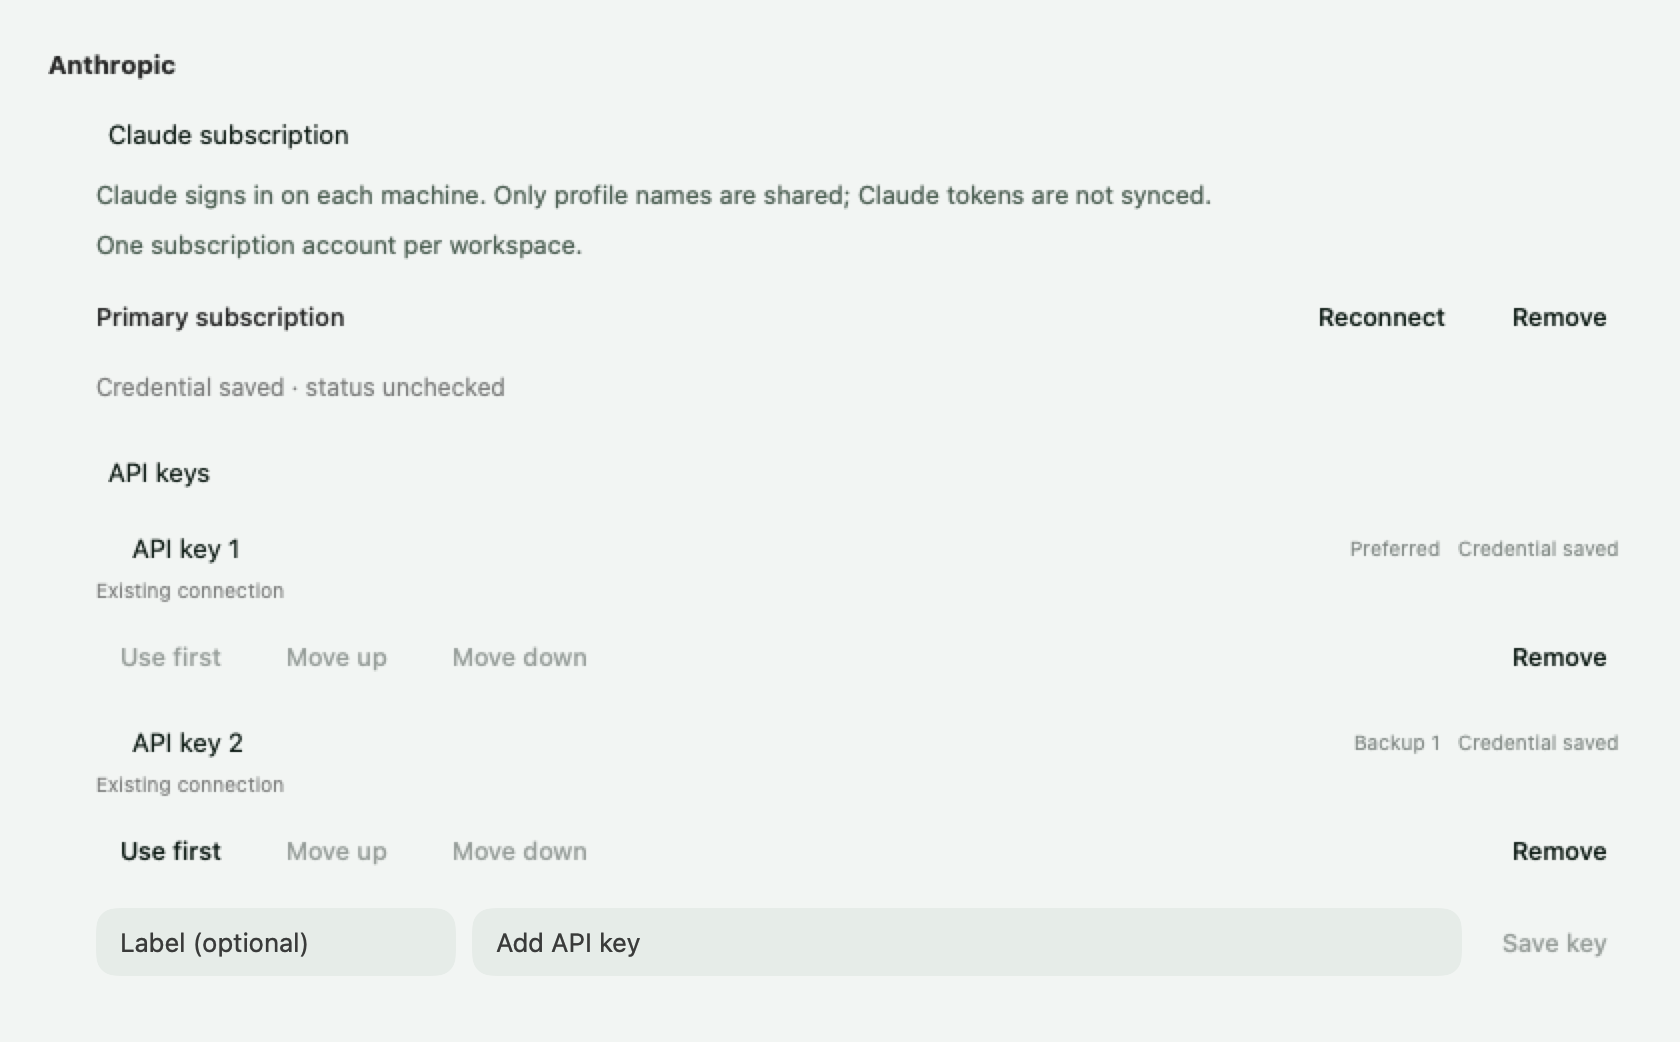
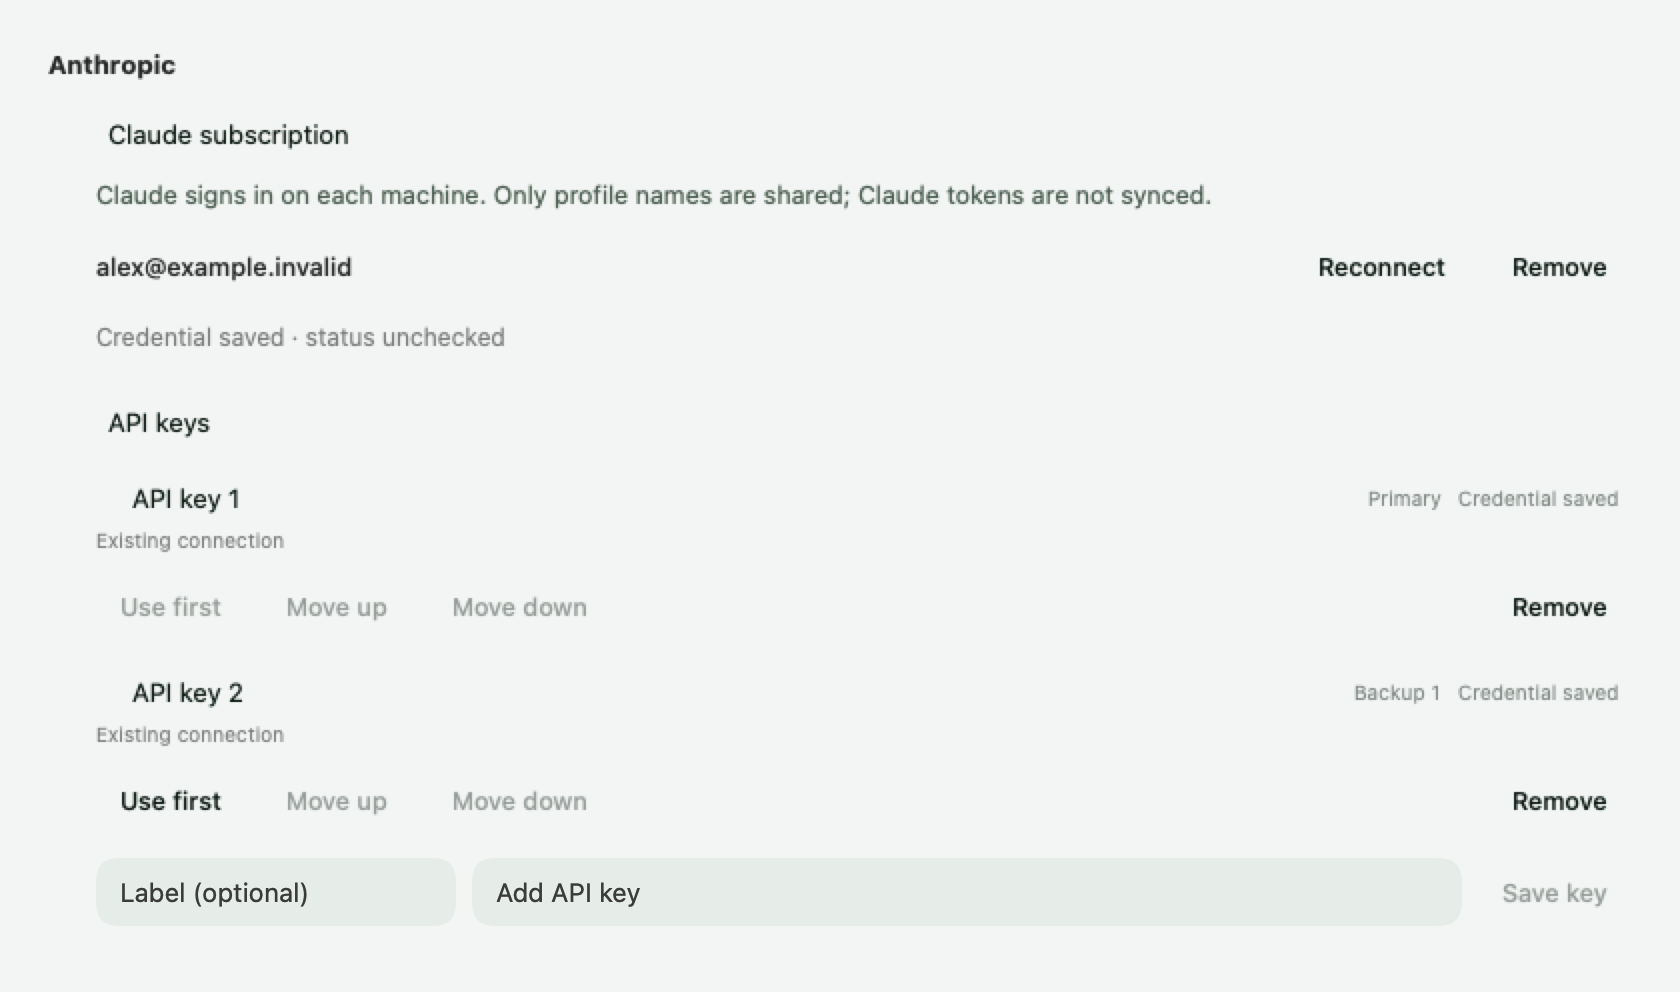
Show subscription identity without priority wording

diff --git a/app/App/Views/SettingsConnectionsView.swift b/app/App/Views/SettingsConnectionsView.swift
@@ -170,7 +170,6 @@ struct SettingsConnectionsView: View {
                 SettingsNote("Claude signs in on each machine. Only profile names are shared; Claude tokens are not synced.")
             }
             if subscription {
-                SettingsNote("One subscription account per workspace.")
                 ForEach(accounts) { account in
                     HStack {
                         Text(account.label).font(.system(size: 12.5, weight: .medium))
@@ -204,7 +203,7 @@ struct SettingsConnectionsView: View {
                         HStack {
                             Text(account.label)
                             Spacer()
-                            Text(account.isSelected ? "Preferred" : "Backup \(index)").font(.caption).foregroundStyle(.secondary)
+                            Text(account.isSelected ? "Primary" : "Backup \(index)").font(.caption).foregroundStyle(.secondary)
                             Text("Credential saved").font(.caption).foregroundStyle(.secondary)
                         }
                     }
@@ -216,7 +215,7 @@ struct SettingsConnectionsView: View {
                 }
             }
             if remote != nil && ["openai-codex", "xai"].contains(id) {
-                Text("An independent workspace sign-in replaces the shared account. It has no backup account.")
+                Text("An independent workspace sign-in replaces the shared account.")
                     .font(.caption).foregroundStyle(.secondary)
                 Button("Use shared sign-in") { Task { await agent.signOut(id, remote: remote) } }
                     .buttonStyle(SettingsQuietButtonStyle()).disabled(agent.busy || !editable)

diff --git a/docs/STYLE_GUIDE.md b/docs/STYLE_GUIDE.md
@@ -96,8 +96,9 @@ when an intentional design change is accepted.
   and workspace synchronization.
   OpenAI, Anthropic, and Grok retain separate subscription and API-key groups.
   Each subscription group shows one account with Reconnect/Remove, without
-  Add account, preferred/backup labels, or ordering controls. API keys retain their
-  account lists. Mobile permits one subscription connection per provider per device,
+  Add account, priority labels, or ordering controls. Show the subscription identity
+  without primary/backup wording. API-key lists show Primary followed by numbered
+  backups. Mobile permits one subscription connection per provider per device,
   with reconnect through the saved connection.
   OpenRouter, OpenCode, Exa, Brave, and Firecrawl show API-key controls directly when expanded.
   Keep their content at the same indentation as the content

diff --git a/docs/guide/default-agent.md b/docs/guide/default-agent.md
@@ -49,7 +49,7 @@ need a workspace software update before they can expose SDK management.
 
 ChatGPT, Claude, and Grok each support one subscription account per workspace.
 API keys still support up to four accounts per connection type. Existing subscription
-account lists retain the preferred account and discard backup entries. Reconnect
+account lists keep the selected account and remove additional entries. Reconnect
 the current subscription or remove it before changing accounts.
 
 Fallback applies when a connection loses authentication or exhausts its available
